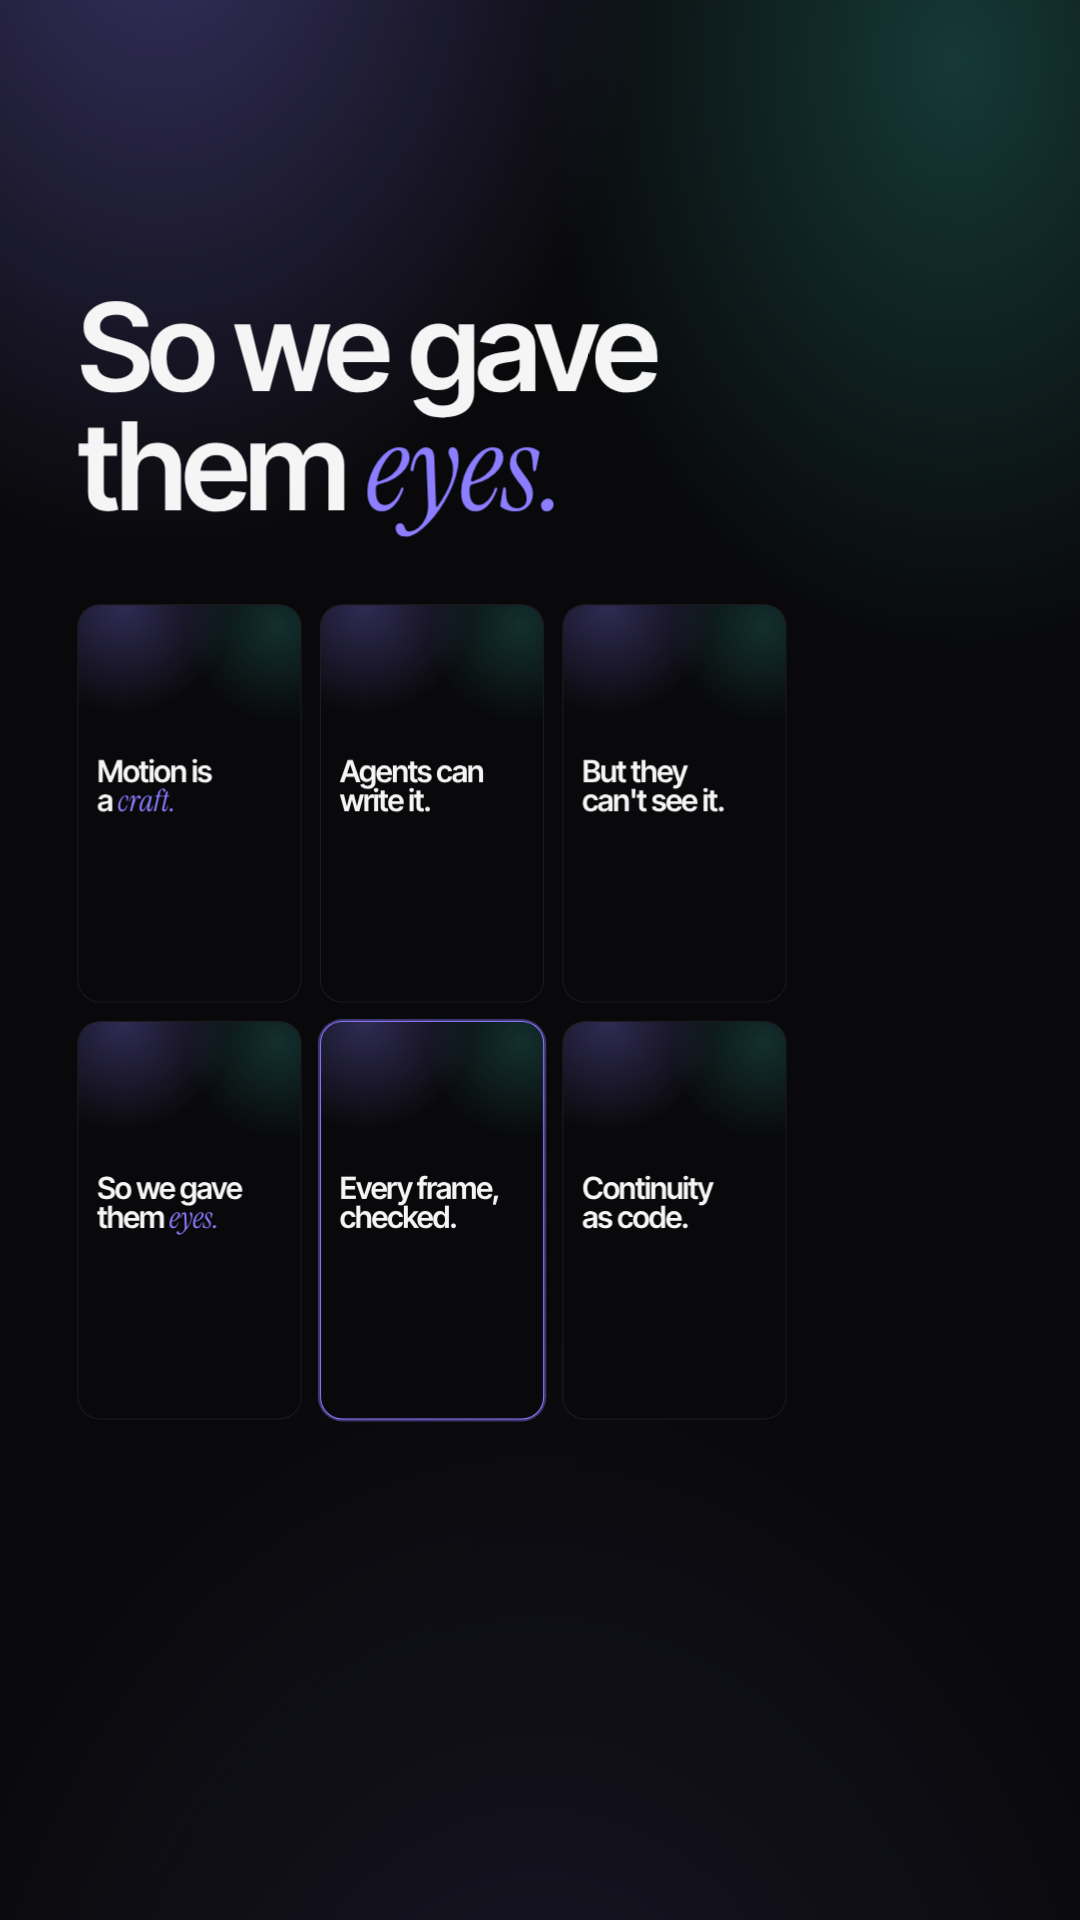
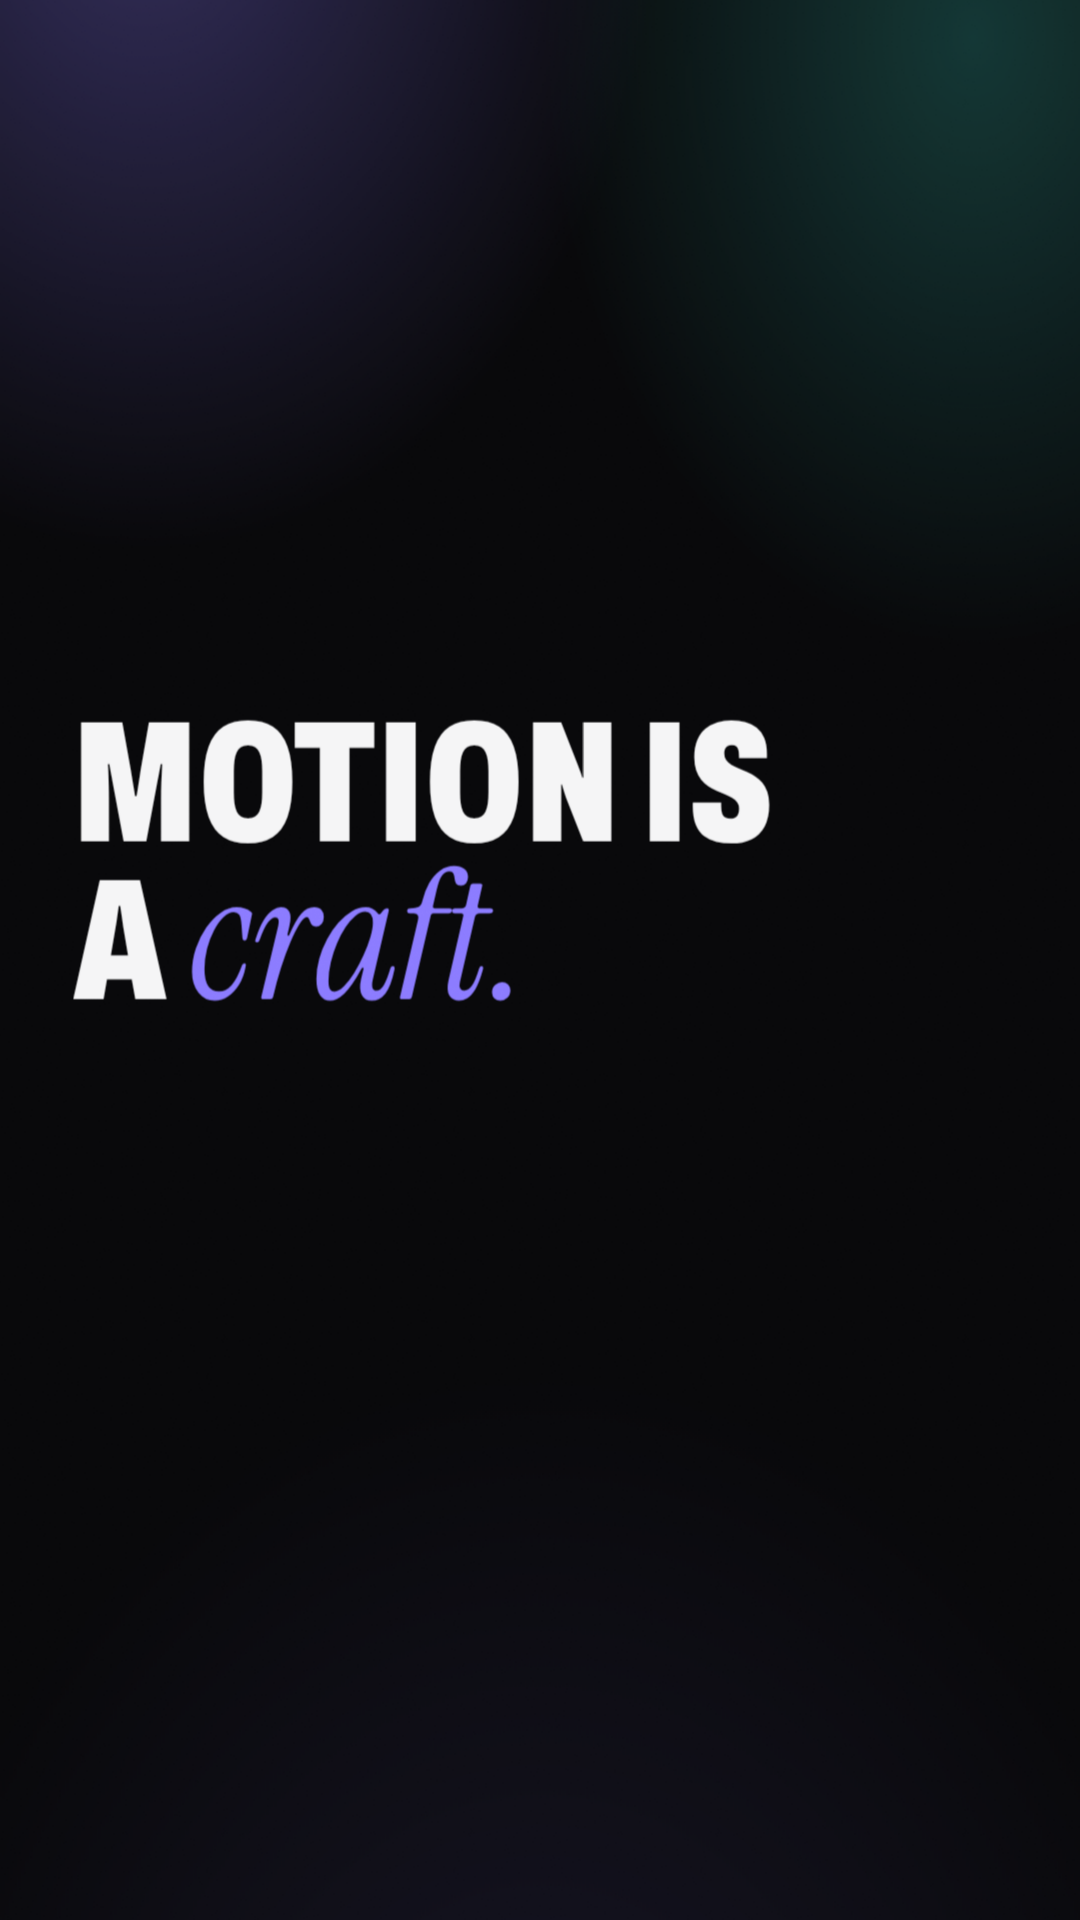
example-type: ship the v2 broadside cut (critique 4.6)
- eyes: the critic's last fix — the tile grid opens centre column → top
  corners → bottom corners (stagger 0 inside each pair; an array target
  otherwise list-staggers by default).
- treatment: rhythm and end-card notes match the cut.
- Curated outputs from `ct report`: report.md (scores, history, known
  gaps), poster (settled hook) and contact sheet of iteration 12.
- README: example-type caption — 15s, broadside + kinetic punch, gate 0/0,
  critique 3.8 → 4.0 → 4.6.

ct check --deep: 0 errors, 0 warnings. Render QC clean; ct motion: 0 dead
zones, 0 jolts.

Claude-Session: https://claude.ai/code/session_011HFtrgvARXDaKsVqM7pM4m

diff --git a/projects/example-type/scenes/eyes.tsx b/projects/example-type/scenes/eyes.tsx
@@ -96,10 +96,11 @@ export default scene({
   motion: (m) => {
     m.enter("l1", "maskUp", { at: "b1", split: "lines" });
     m.enter("l2", "maskUp", { at: "b1+0.15", split: "lines" });
-    // Centre column first, then both sides: a 3×2 grid opening outward (a list stagger from
-    // "center" would count t1…t6 in a row and pop the corners t3/t4 first).
-    m.enter(["t2", "t5"], "scalePop", { at: "b2" });
-    m.enter(["t1", "t3", "t4", "t6"], "scalePop", { at: "b2+0.06" });
+    // The 3×2 grid opens from its centre column, then the top corners, then the bottom ones
+    // (a list stagger from "center" would count t1…t6 in a row and pop the corners t3/t4 first).
+    m.enter(["t2", "t5"], "scalePop", { at: "b2", stagger: 0 });
+    m.enter(["t1", "t3"], "scalePop", { at: "b2+0.05", stagger: 0 });
+    m.enter(["t4", "t6"], "scalePop", { at: "b2+0.1", stagger: 0 });
     m.emphasize("t5", "pulse", { at: "b2+0.9" });
     m.camera({ scale: [1, 1.04], y: [0, -24] });
   },

diff --git a/projects/example-type/.continuity/report.md b/projects/example-type/.continuity/report.md
@@ -2,36 +2,57 @@
 
 > For skeptical designers: AI agents can now make motion you'd ship, because they can finally see their own work.
 
-**Format:** 9:16 · 1080×1920 · 30fps · 14.65s · theme `mono-dark`
+**Format:** 9:16 · 1080×1920 · 30fps · 14.96s · theme `mono-dark`
 
 | # | Scene | In | Duration | Intent | Transition out |
 |---|---|---|---|---|---|
 | 1 | `hook` | 00:00.00 | 2.6s | Stake the claim: motion design is a craft (earn trust with designers). | cut |
-| 2 | `write` | 00:02.60 | 2.3s | The turn: agents can already write motion code. | cut |
-| 3 | `blind` | 00:04.90 | 2.5s | Tension: they can't see what they make. | zoom |
-| 4 | `eyes` | 00:06.95 | 2.9s | Resolution: we gave them eyes — the contact sheet as proof. | cut |
-| 5 | `check` | 00:09.85 | 2.4s | Proof: every frame is checked. | dip |
-| 6 | `end` | 00:11.75 | 2.9s | Brand + promise + CTA. | cut |
+| 2 | `write` | 00:02.60 | 2.3s | The turn: agents can already write motion code. | punchCut |
+| 3 | `blind` | 00:04.53 | 2.6s | Tension: they can't see what they make. | whip |
+| 4 | `eyes` | 00:06.83 | 2.9s | Resolution: we gave them eyes — the contact sheet as proof. | cut |
+| 5 | `check` | 00:09.73 | 2.4s | Proof: every frame is checked. | punchCut |
+| 6 | `end` | 00:11.76 | 3.2s | Brand + promise + CTA. | cut |
 
-## Iteration #4 (best)
+## Iteration #12 (best)
 
 - Gate: ✅ pass — 0 errors, 0 warnings
-- Critique: intent 4 · composition 4 · typography 5 · temporal 4 · craft 4 (mean 4.2)
-- Render: `out/example-type/example-type-234bf319e0ef.mp4`
-- Note: First complete cut: editorial kinetic type, self-referential contact sheet.
+- Critique: intent 4 · composition 5 · typography 5 · temporal 4 · craft 5 (mean 4.6)
+- Render: `out/example-type/example-type-84f6c6e57aaa.mp4`
+- Note: #10 + the critic's one remaining fix (tile cascade: centre column, top corners, bottom corners) — scores carried from #10's critique, the fix verified on stills 7.60/7.70 and ct timeline
 
 ![contact sheet](sheet.png)
 
 ### Critique
 
-Scores: intent 4 · composition 4 · typography 5 · temporal 4 · craft 4   (mean 4.2)
+Scores: intent 4 · composition 5 · typography 5 · temporal 4 · craft 5 (mean 4.6). Carried over from the critic's review of #10. #12 differs from #10 only by that review's one remaining fix, the eyes tile cascade, which was checked on stills 7.60/7.70 and in `ct timeline`.
 
-Evidence: gate 0/0/0 (iteration 4); timeline lint clean; sheet iteration 3 + eyes still iteration 4.
+**What it is.** The flagship 9:16 kinetic-type piece, re-cut in the v2 look. Type is the **broadside** kit: Archivo condensed caps at 850 weight, Inter Tight for text, Martian Mono for labels, and an Instrument Serif italic accent used only on *craft.* and *eyes.*. Transitions follow the **kinetic punch** language: cuts on the beat, two punch cuts (write→blind and check→end) and one feathered vertical whip (blind→eyes), all travelling upward. The single variable-axis moment is the end-card wordmark settling from wide (widthIn), outward from the centre, after the flash.
 
-Top fixes (next round, if any):
-1. [composition] all scenes — lower ~30% of the frame is unused in type-only scenes; acceptable for 9:16 (feed UI), but a bottom-anchored element (progress tick / page index) could add structure.
-2. [temporal] write.l1 @00:02.65 — hard cut lands on ~0.1s of empty frame before words rise; start b1 at 0.0 with a faster first word.
-3. [craft] end.glow — glow pulse is the only ambient motion on the end card; add a 1–2% camera drift (already present) — OK, low priority.
+**Critic's keep list.**
+- The kit is used through its roles.
+- The left edge is shared across scenes.
+- The curly apostrophe in CAN’T.
+- The blur on "see".
+- A camera push on every hold.
+- The end card is centred in the social safe zone, 33px left of the frame centre, clear of the platform UI rail. This is intentional.
 
-Keep (don't touch): left-edge consistency across cuts; serif-italic accent swaps (craft. / eyes.); blur on "see"; self-referential contact-sheet tiles; check-mark draw; dip into the end card.
+**Known gaps**
+- Intent sits at 4 by the rubric's letter. The CTA is a quiet mono eyebrow, and the hook states a premise rather than the product. This follows the treatment's argument arc and was accepted rather than reworked.
+- For 2 frames (≈67ms) around 10.10–10.13, the comma of FRAME, is still under its line mask while the line rises, so it reads "FRAME." mid-motion. This can't be seen at playback speed and was judged not a defect.
+- The gate reports 9 `content_overlap` infos at the two punch-cut swaps. They are false positives: the swapped-out scene is still in the DOM. The stills at the swap frames show only the incoming scene.
 
+**Engine gaps found by this cut (not fixable in the project)**
+- A stagger `from: "center"` counts along the target list, not the grid. The cascade here is choreographed by hand.
+- The overlap audit doesn't know a punch-cut has already swapped scenes (the infos above).
+- The gate catches neither text set outside `<Safe>` nor glyphs colliding between tightly led lines. The critic found both by eye.
+
+**Fixed in the engine during this cut.** Both are in commit d72e47b.
+- Line-mask presets now travel by the text's leading in v2 kits. At broadside's 0.88 leading, a sliver of every line showed at frame 0.
+- Blurred pushes and whips now feather both sides of the seam. It stayed razor sharp at peak speed.
+
+
+## History
+
+- #5 vs #8 → **#8** — Both orders agree: #8 (byte-identical sources to #7) wins every frame that differs — proof beat at display size vs h1, wordmark in frame under the punch vs CO clipped at x=0, tiles mirror the real scenes; hook/write/blind/end-settled equal. One regression: FRAME,/CHECKED. comma collision. 4.0 vs 3.8, both 0 gate errors.
+- #8 vs #10 → **#10** — Both orders agree: #10 wins check (comma clears CHECKED. by 17px vs touching) and end (card inside social safe, x 104-914 vs 137-947 in the UI rail); hook/write identical, blind/eyes equal at pack scale. 4.6 vs 4.0, both 0 gate errors.
+- #10 vs #12 → **#12** — Both packs identical at all 8 sample points (none lands in the 7.48–8.0 tile cascade). The only difference is the critic's remaining fix: at 7.60 #10 shows t1/t2/t5 in and the right column empty (list stagger inside each call); #12 opens centre column → top corners → bottom corners, symmetric (stills 011→012 t-7.600/7.700, ct timeline 0.65/0.70/0.75). Gate 0/0 both; #12 also passed --deep and rendered with clean QC.

diff --git a/projects/example-type/treatment.md b/projects/example-type/treatment.md
@@ -16,7 +16,8 @@ brand. One line pair per scene; the argument reads even muted.
   (`craft.`, `eyes.`) — the contrast does the work; a marker bar under `WRITE`; `SEE` defocusing;
   a drawn check.
 - Same left edge and baseline rhythm in every scene (`TypeStack`), so cuts read as one layout
-  changing state.
+  changing state. The end card breaks it on purpose — centred, but inside the social safe zone
+  (clear of the platform's right-hand rail), not on the frame.
 
 **Motion language.**
 - Lines mask up (`maskUp` by line, `hero`), words punch on the turn (`rise` by words).
@@ -28,8 +29,9 @@ brand. One line pair per scene; the argument reads even muted.
 accents where the story turns: a `punchCut` into the tension (*but they can't see it*) and into
 the brand, and one vertical `whip` from blindness up into *so we gave them eyes*. Nothing else.
 
-**Rhythm.** 2.3–2.9s per beat, ~14s total. Punches on the turns, a breath on the contact sheet,
-the end card holds ≥ 1.5s.
+**Rhythm.** 2.3–2.9s per beat (the end card 3.2s), ~15s total. Punches on the turns, a breath on
+the contact sheet, the end card holds ≥ 1.5s. After a punch, the incoming scene starts moving only
+once the flash has landed.
 
 **References.** Figma Config 2025 identity (condensed display), Vercel Ship type films,
 Pentagram kinetic identities.

diff --git a/README.md b/README.md
@@ -26,7 +26,7 @@ No GSAP, no network at render time, byte-identical frames across worker counts.
 | | |
 |---|---|
 | ![example-launch contact sheet](projects/example-launch/.continuity/sheet.png) | **example-launch** — 31.4s 16:9 launch film for Continuity itself, made by the agent team (director → 7 parallel scene-builders → critic, two improvement rounds). Gate 0/0, critique 3.8 → 4.4 → **4.6**/5. |
-| ![example-type contact sheet](projects/example-type/.continuity/sheet.png) | **example-type** — 14.7s 9:16 kinetic type, made through the harness. Gate: 0 errors. Critique mean 4.2/5. |
+| ![example-type contact sheet](projects/example-type/.continuity/sheet.png) | **example-type** — 15s 9:16 kinetic type in the v2 look: the `broadside` type kit (Archivo condensed caps, one Instrument Serif accent) and a "kinetic punch" transition language (cuts, two punch cuts, one feathered whip). Made through the harness, three critique rounds. Gate 0/0, critique 3.8 → 4.0 → **4.6**/5. |
 
 ## Install
 
